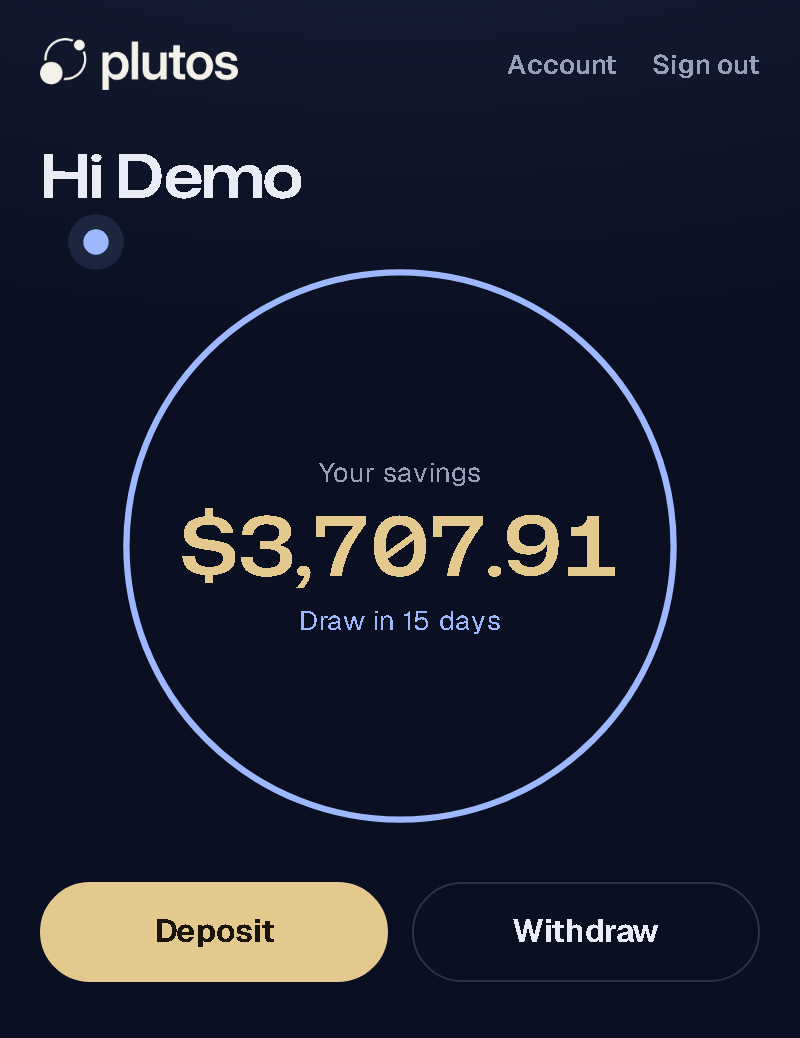
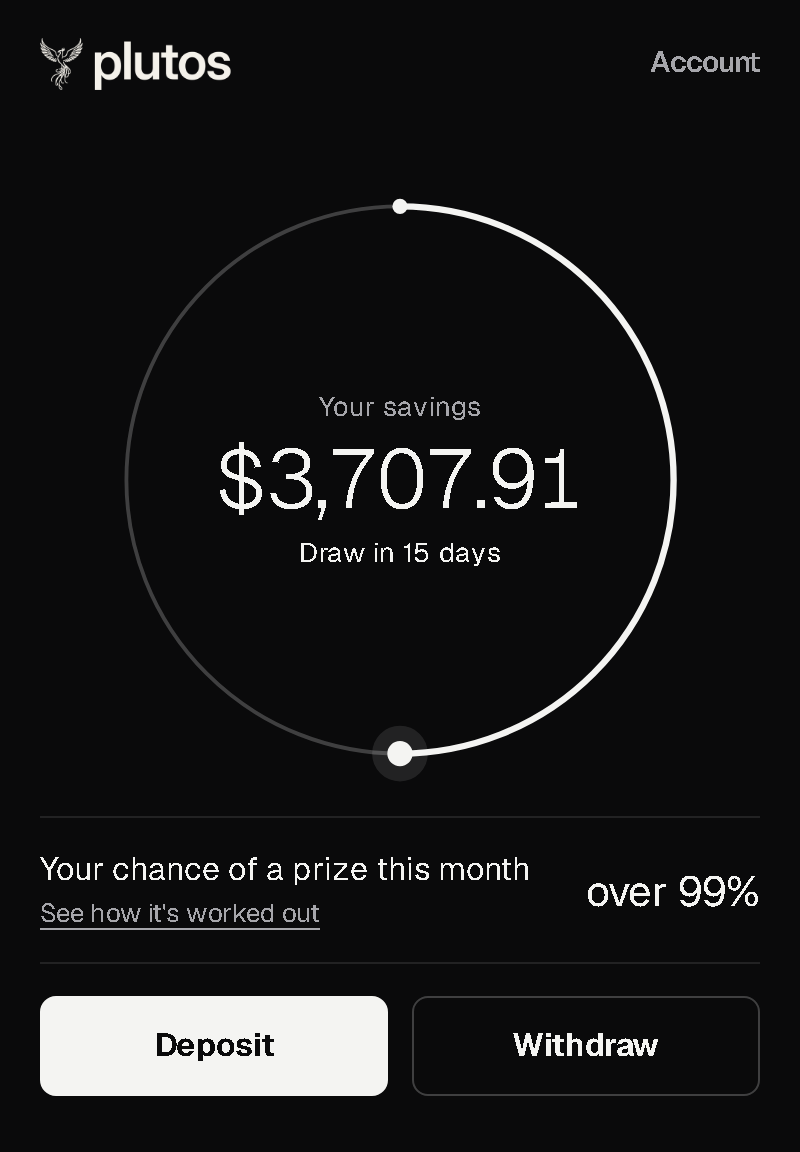
Homepage: the two app pictures retaken from the app's new look
They still showed the navy and gold app with the orbit logo. Retaken from the demo account in the current app
(near-black, phoenix logo); sizes and descriptions updated to match.

diff --git a/app/index.html b/app/index.html
@@ -85,8 +85,8 @@
           </ul>
         </div>
         <div class="screens">
-          <img class="screen" src="/src/media/app-home.png" alt="The Plutos app's home screen: a savings balance of $3,707.91, the next draw in 15 days, and Deposit and Withdraw buttons." width="800" height="1038" loading="lazy" />
-          <img class="screen" src="/src/media/app-draws.png" alt="The Plutos app's list of draws: round 3, no prize; round 2, you won $1.70; round 1, you won $6.21." width="800" height="882" loading="lazy" />
+          <img class="screen" src="/src/media/app-home.png" alt="The Plutos app's home screen: savings of $3,707.91 inside a ring that shows the next draw is in 15 days, the chance of a prize this month, and Deposit and Withdraw buttons." width="800" height="1152" loading="lazy" />
+          <img class="screen" src="/src/media/app-draws.png" alt="The Plutos app's list of draws: draw 3, no prize; draw 2, you won $1.70; draw 1, you won $6.21." width="800" height="926" loading="lazy" />
         </div>
       </div>
     </section>
